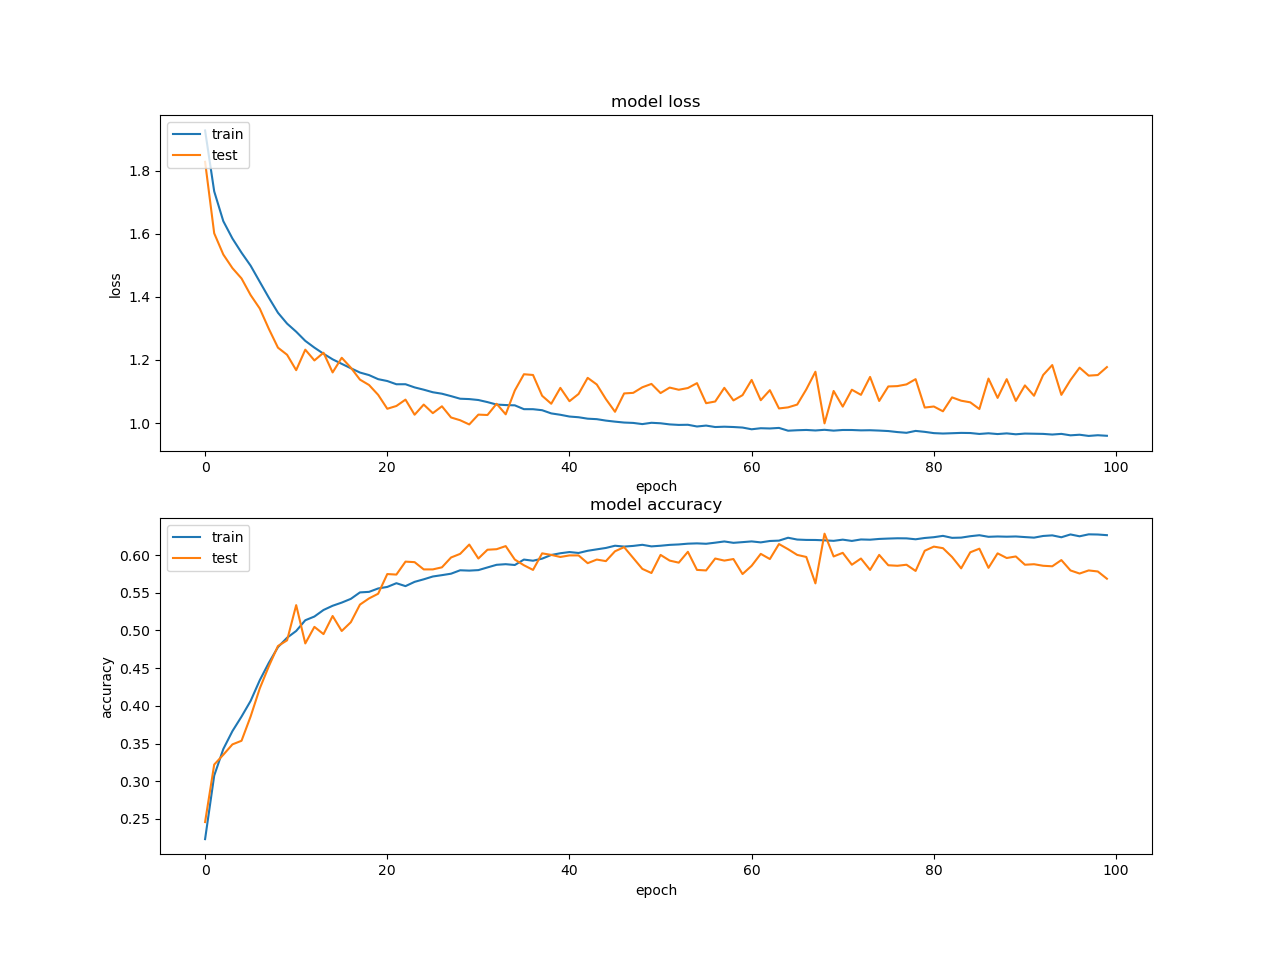
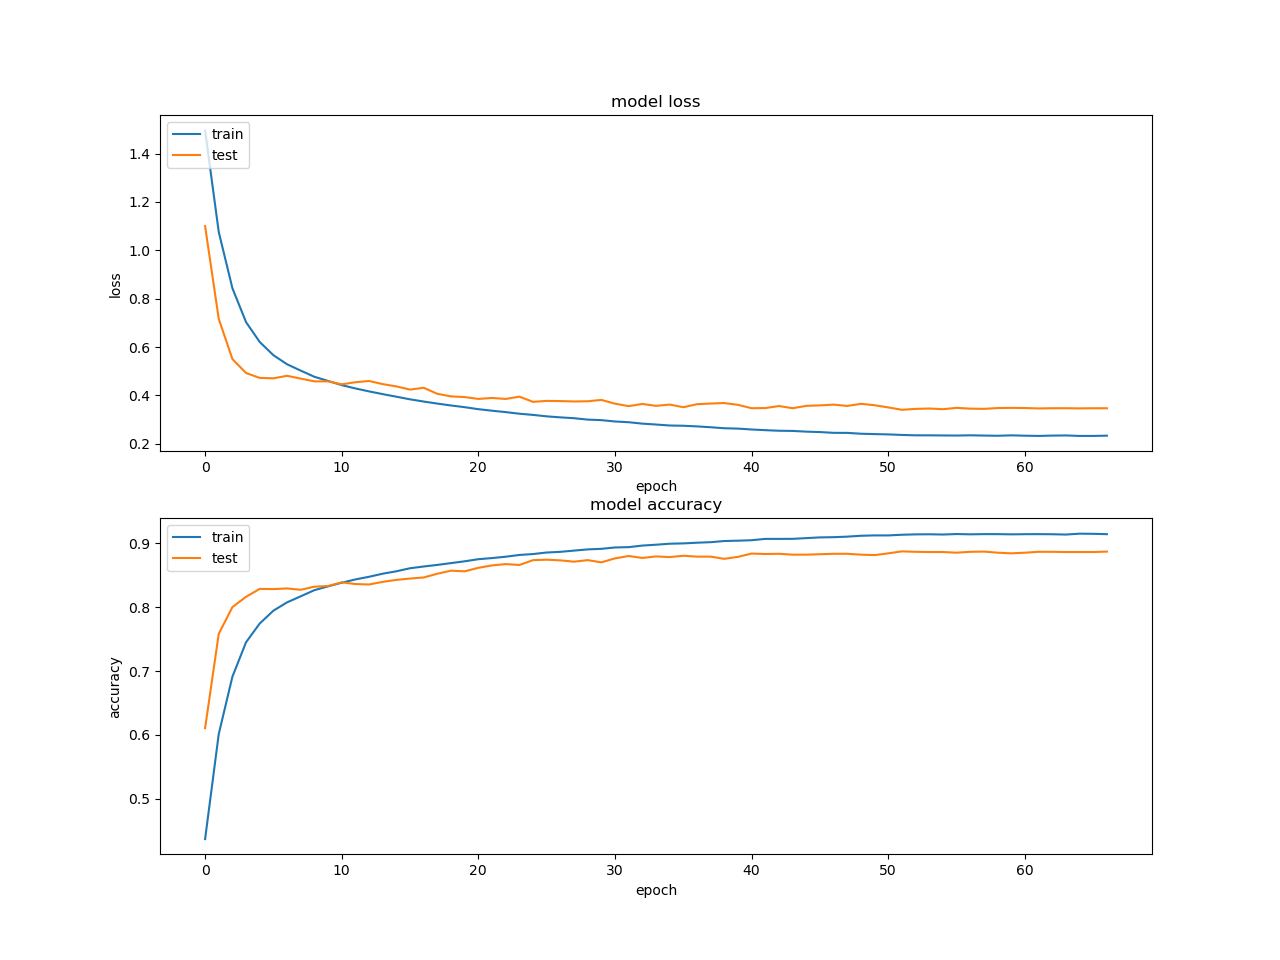
fixed loaders thanks to carson I think!

diff --git a/lstm/simple_lstm.py b/lstm/simple_lstm.py
@@ -1,7 +1,9 @@
+from tensorflow.python.framework.ops import disable_eager_execution
+disable_eager_execution()
+import tensorflow as tf
 from tensorflow.keras.models import load_model
 from dataloaders import test_loader
 from scipy.stats import gaussian_kde
-import tensorflow as tf
 from tensorflow.keras import optimizers
 from tensorflow.keras.callbacks import EarlyStopping, ModelCheckpoint
 import numpy as np
@@ -12,6 +14,7 @@ from tensorflow.keras.models import Model
 from tensorflow.keras.utils import to_categorical
 from tensorflow.keras.preprocessing.sequence import TimeseriesGenerator
 import matplotlib.pyplot as plt
+
 
 class DataGenerator(tf.keras.utils.Sequence):
     def __init__(self, features, targets, batch_size = 400, dim = (53), n_channels = 8, shuffle=True, n_classes=7):
@@ -46,42 +49,38 @@ x_val = np.load("../data/x_val.npy")
 y_val = np.load("../data/y_val.npy")
 
 # fiddle with batch_size
-training_set = DataGenerator(x_tr, y_tr, batch_size = 1456, shuffle=False)
+training_set = DataGenerator(x_tr, y_tr, batch_size = 1456, shuffle=True)
 val_set=DataGenerator(x_val, y_val, batch_size = 1456, shuffle=False)
 
 
 start = Input((None, 8), name = 'Input')
 # or 170 or 298
 x = LSTM(170, activation = 'tanh'
-         ,dropout=0.2, recurrent_dropout=0.25
+         ,dropout=0.2, recurrent_dropout=0.5
          )(start)
 out = Dense(7, activation='softmax' )(x)
-
 lstm = Model(start, out)
-
 fit_options = {
     'epochs': 100,
     'verbose':1,
 }
 compilation_options = {
-    'optimizer':optimizers.Adam(lr=0.0005),
+    'optimizer':optimizers.Adam(lr=0.0001),
     'loss' : 'sparse_categorical_crossentropy',
     'metrics' : ['accuracy']}
-
 cb = EarlyStopping(monitor="val_loss", patience = 15)
 cb2 = tf.keras.callbacks.ReduceLROnPlateau(monitor='val_loss')
 check = tf.keras.callbacks.ModelCheckpoint("simple_lstm.h5", monior='val_loss', save_best_only=True)
-
 lstm.compile(**compilation_options)
 
-history = lstm.fit(x_tr, y_tr,
-                         validation_data=(x_val, y_val), shuffle = False, batch_size=1456,
+history = lstm.fit(training_set,
+                         validation_data=val_set,# shuffle = False, batch_size=1456,
                          **fit_options, callbacks = [cb, cb2, check])
 
 
 plt.subplot(212)
-plt.plot(history.history['acc'])
-plt.plot(history.history['val_acc'])
+plt.plot(history.history['accuracy'])
+plt.plot(history.history['val_accuracy'])
 plt.title('model accuracy')
 plt.ylabel('accuracy')
 plt.xlabel('epoch')

diff --git a/lstm/large_loader.py b/lstm/large_loader.py
@@ -103,8 +103,9 @@ def split(band=False):
     split_emg[0], split_lab[0]= lp.augment_data(split_emg[0], split_lab[0])
     split_emg[0] = split_emg[0] + [lp.add_noise_snr(i) for i in split_emg[0]]
     split_lab[0] = 2*split_lab[0]
-    trainx = [lp.window_stack(x, 18, int(260/5)) for x in split_emg[0]]
-    testx = [lp.window_stack(x, 18, int(260/5)) for x in split_emg[1]]
+    trainx = [lp.window_stack(x, 5, int(260/5)) for x in split_emg[0]]
+    print(trainx[0].shape)
+    testx = [lp.window_stack(x, 5, int(260/5)) for x in split_emg[1]]
     # force into proper arrays
     trainy = lp.roll_labels(trainx, split_lab[0])
     testy = lp.roll_labels(trainx, split_lab[1])
@@ -115,7 +116,7 @@ def split(band=False):
     #test_labs = []
     #for i in range(len(split_lab[1])):
     #    test_labs.append(np.repeat(split_lab[1][i], split_emg[1][i].shape[0]))
-    return np.moveaxis(np.dstack(trainx),2,0), np.hstack(trainy), np.moveaxis(np.dstack(testx),2,0), np.hstack(testy)
+    return np.moveaxis(np.concatenate(trainx,axis=0),2,1), np.hstack(trainy), np.moveaxis(np.concatenate(testx),2,1), np.hstack(testy)
 
 xtr, ytr, xt, yt = split()
 

diff --git a/lstm/load_pretrain.py b/lstm/load_pretrain.py
@@ -71,7 +71,7 @@ def roll_labels(x, y):
     labs_rolled = []
     for i in range(len(y)):
         l = y[i]
-        n = x[i].shape[2]
+        n = x[i].shape[0]
         labs_rolled.append(np.repeat(l,n))
     return np.hstack(labs_rolled)
 
